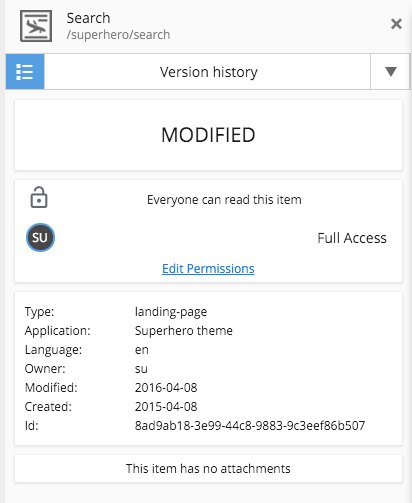
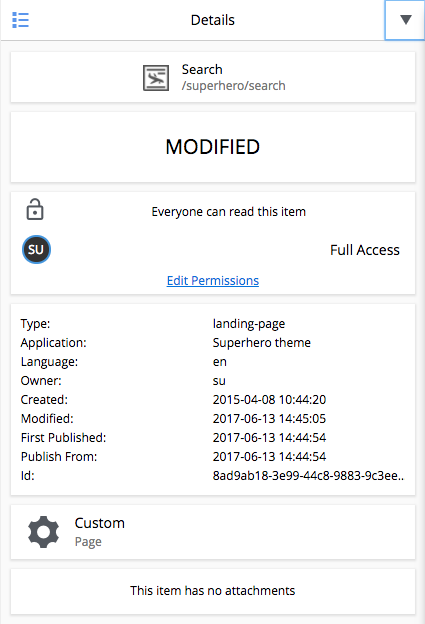
Updated description of Details Panel with changes in Widget selector and the new rendering mode box.

diff --git a/doc/admin/contentstudio/detail-panel.rst b/doc/admin/contentstudio/detail-panel.rst
@@ -6,24 +6,34 @@ Detail panel
 .. |detailicon| image:: images/icon-detail-panel.png
 .. |unlockicon| image:: images/icon-unlock.png
 
-This panel shows basic information about whichever content is selected in the tree grid. The content type icon is displayed at the top along
-with the Display Name of the content and the content path.
+The detail panel displays built-in and custom widgets with information about the content, selected in the tree grid.
+To see it, click the |detailicon| button in the top right corner.  This reveals the panel selector, which by default show details about
+the content.  The details are split into several boxes that show:
+ * Icon, name and path of selected content
+ * Content status (Online, Offline, or Modified)
+ * Permissions:  The permissions section has three parts.  First it shows an unlock icon |unlockicon| if the content has the role **Everyone**, which means the content is viewable
+   without authentication. Second, it lists the users that have access to the selected content at each access level, for example, "Can Read" or
+   "Full Access". Third, it has a link to edit permissions if the logged in user has the **Content Manager Administrator** role or other
+   applied permissions to edit the content.
+ * Basic information about the selected content, including type, application, language, owner, timestamps and ID
+ * Rendering Mode, which reveals if the content is rendered by a custom built page, a specifically selected page template, or an
+   automatically selected page template.
+ * File attachments
 
 .. image:: images/content-detail-panel.png
 
-Next is the **widget selector** control with the installed widgets listed in a dropdown. The **Version history** widget is built-in and
-others can be added with the Applications admin tool. When a widget is selected, everything below it in the details panel is replaced with
-whatever the widget is designed to display. To the left of the widget selector is a button |detailicon| that restores the detail panel.
+Widget selector
+---------------
+
+The dropdown menu on the top is a **widget selector** control with the installed widgets listed. In addition to the **Details** widget,
+the **Version history** and **Dependency** widgets are built-in.
+Others can be added with the Applications admin tool.
+When a widget is selected, everything below it in the details panel is replaced with
+whatever the widget is designed to display. To the left of the widget selector the |detailicon| button is available to hide the detail panel.
 
 .. image:: images/widget-selector.png
 
 .. tip:: Widgets are user-definable. Read more about how to create your own :ref:`widgets`.
 
-Next in the detail panel is the content status (Online, Offline, or Modified) followed by the permissions section. The permissions section
-has three parts. First it shows an unlock icon |unlockicon| if the content has the role **Everyone**, which means the content is viewable
-without authentication. Second, it lists the users that have access to the selected content at each access level, for example, "Can Read" or
-"Full Access". Third, it has a link to edit permissions if the logged in user has the **Content Manager Administrator** role or other
-applied permissions to edit the content.
 
-The next part of the detail panel shows basic information about the selected content, including type, application, language, owner,
-timestamps and ID. Finally, if the content has any file attachments, they are listed here.
+

diff --git a/doc/admin/contentstudio/widgets.rst b/doc/admin/contentstudio/widgets.rst
@@ -9,7 +9,7 @@ the top of the panel.
 
 .. tip:: Widgets are user-definable. Read more about how to create your own :ref:`widgets`.
 
-There are two built-in widgets.
+In addition to the details panel, there are two built-in widgets.
 
 .. _version_history:
 
